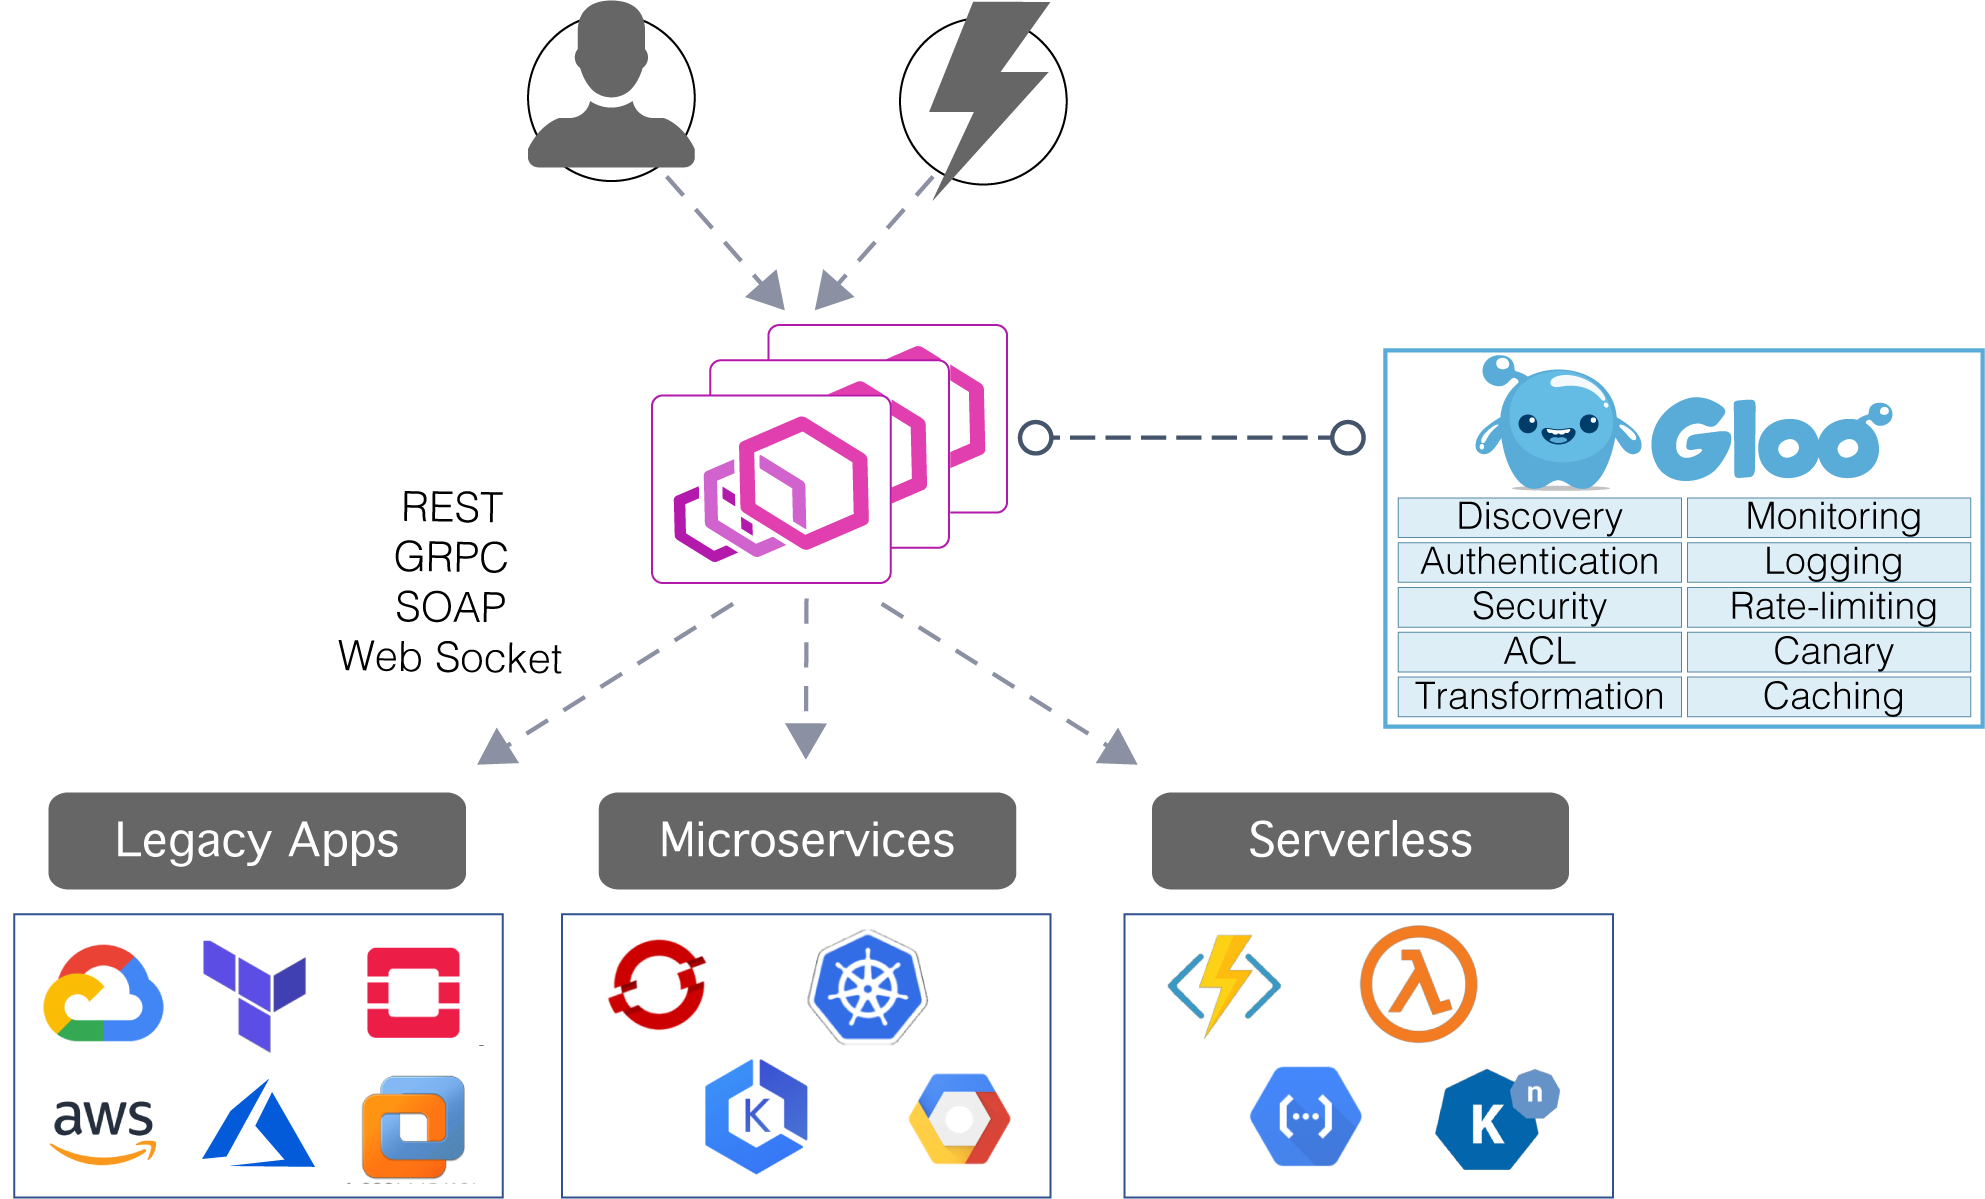
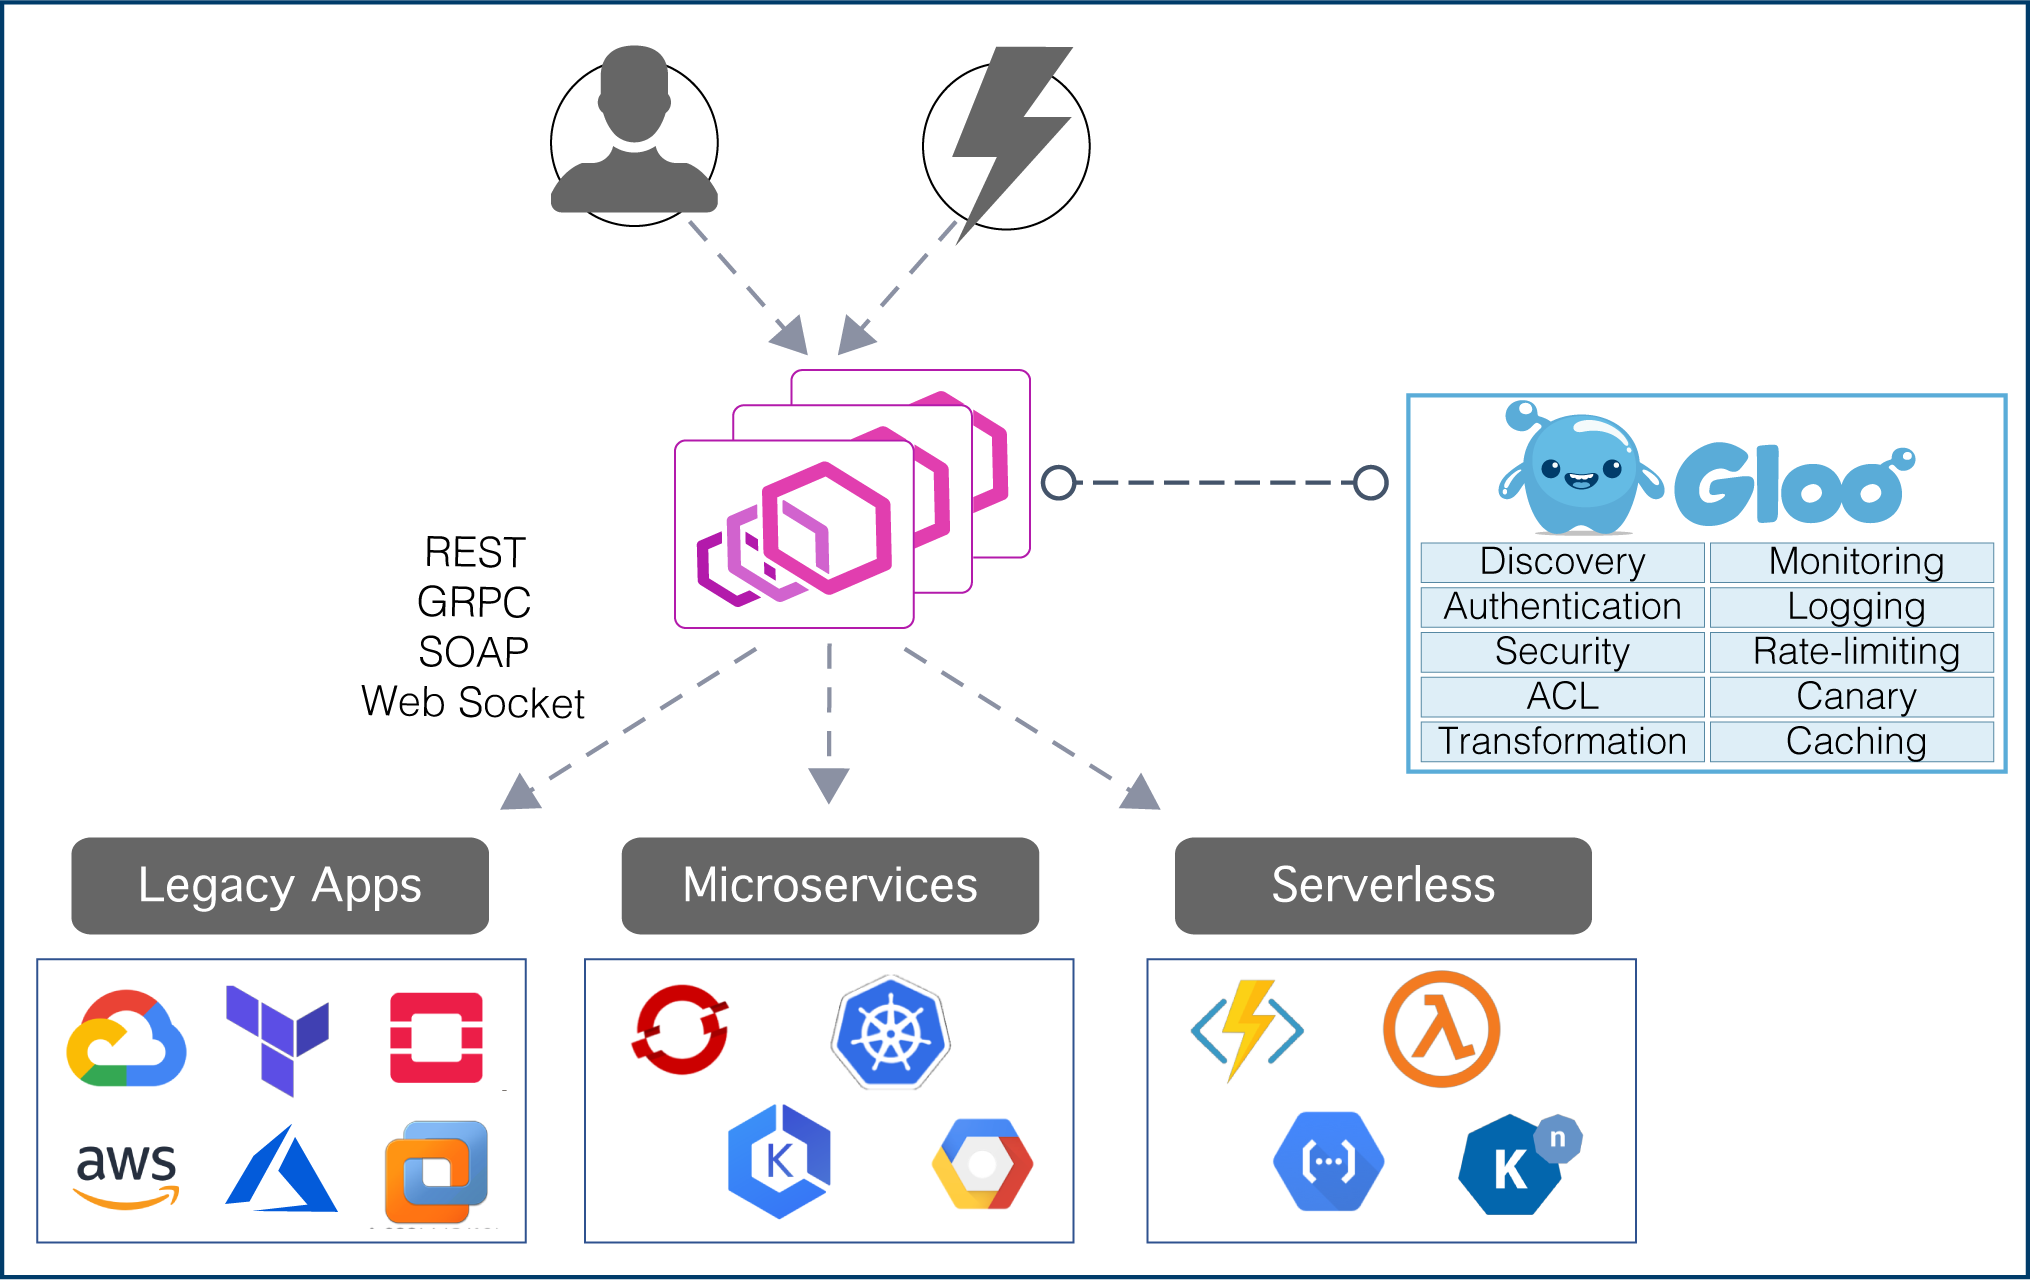
Docs (#197)
* changed diagram

* changed readme with img extention

* change typo at the diagram

* change typo at the diagram

* fixed docs

diff --git a/docs/extra.css b/docs/extra.css
@@ -1,0 +1,9 @@
+.col-md-9 img {
+    border: 0px;
+    background:rgba(0,0,0,0);
+}
+
+img {
+    border: 0px;
+    background:rgba(0,0,0,0);
+}

diff --git a/docs/v1/gloo-gateway.md b/docs/v1/gloo-gateway.md
@@ -1,0 +1,16 @@
+### API Reference for Gloo, The Hybrid Application Gateway
+
+API Version: `gloo.solo.io.v1`
+
+Gloo is a high-performance, plugin-extendable, platform-agnostic API Gateway built on top of Envoy. Gloo is designed for microservice, monolithic, and serverless applications. By employing function-level routing, Gloo can completely decouple client APIs from upstream APIs at the routing level. Gloo serves as an abstraction layer between clients and upstream services, allowing front-end teams to work independently of teams developing the microservices their apps connect to.
+
+
+
+### API Resources:
+- [VirtualService](./virtual_service.proto.sk.md#VirtualService)
+- [Upstream](./upstream.proto.sk.md#Upstream)
+- [Secret](./secret.proto.sk.md#Secret)
+
+<!-- Start of HubSpot Embed Code -->
+<script type="text/javascript" id="hs-script-loader" async defer src="//js.hs-scripts.com/5130874.js"></script>
+<!-- End of HubSpot Embed Code -->

diff --git a/docs/introduction/architecture.md b/docs/introduction/architecture.md
@@ -11,7 +11,7 @@
 
 Gloo aggregates back end services and provides function-to-function translation for clients, allowing decoupling from back end APIs
 
-![Overview](high_level_architecture.png "High Level Architecture")
+![Overview](gloo_diagram.png "High Level Architecture")
 
 Clients issue requests or [emit events](https://github.com/solo-io/gloo-sdk-go) to routes defined on Gloo. These routes are mapped
 to functions on upstream services by Gloo's configuration (provided by clients of Gloo's API). 
